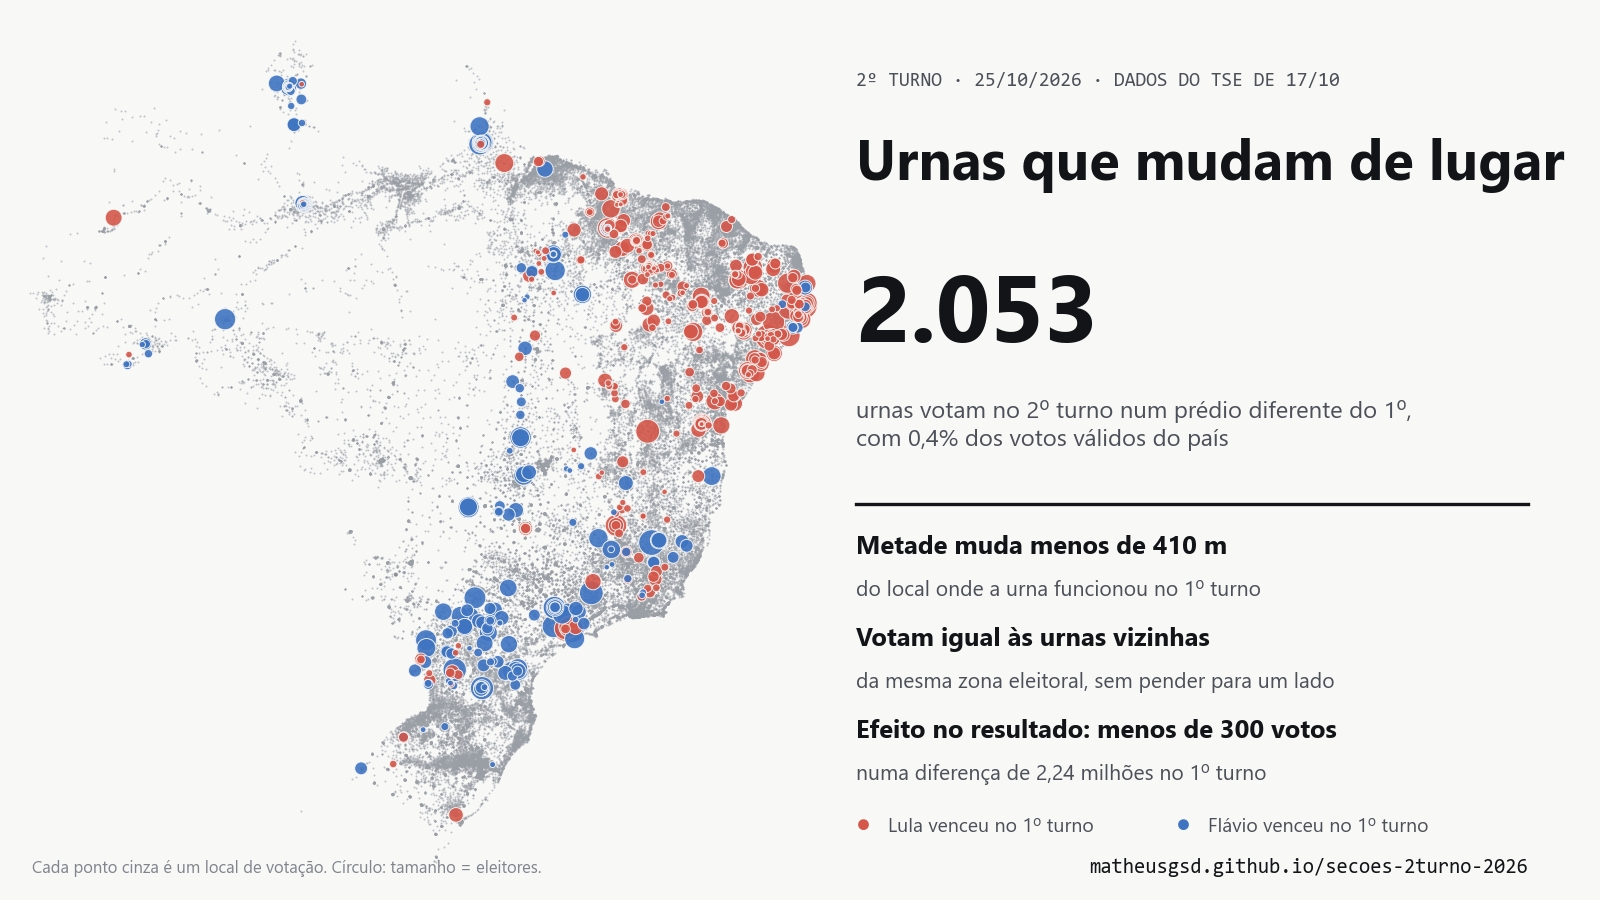
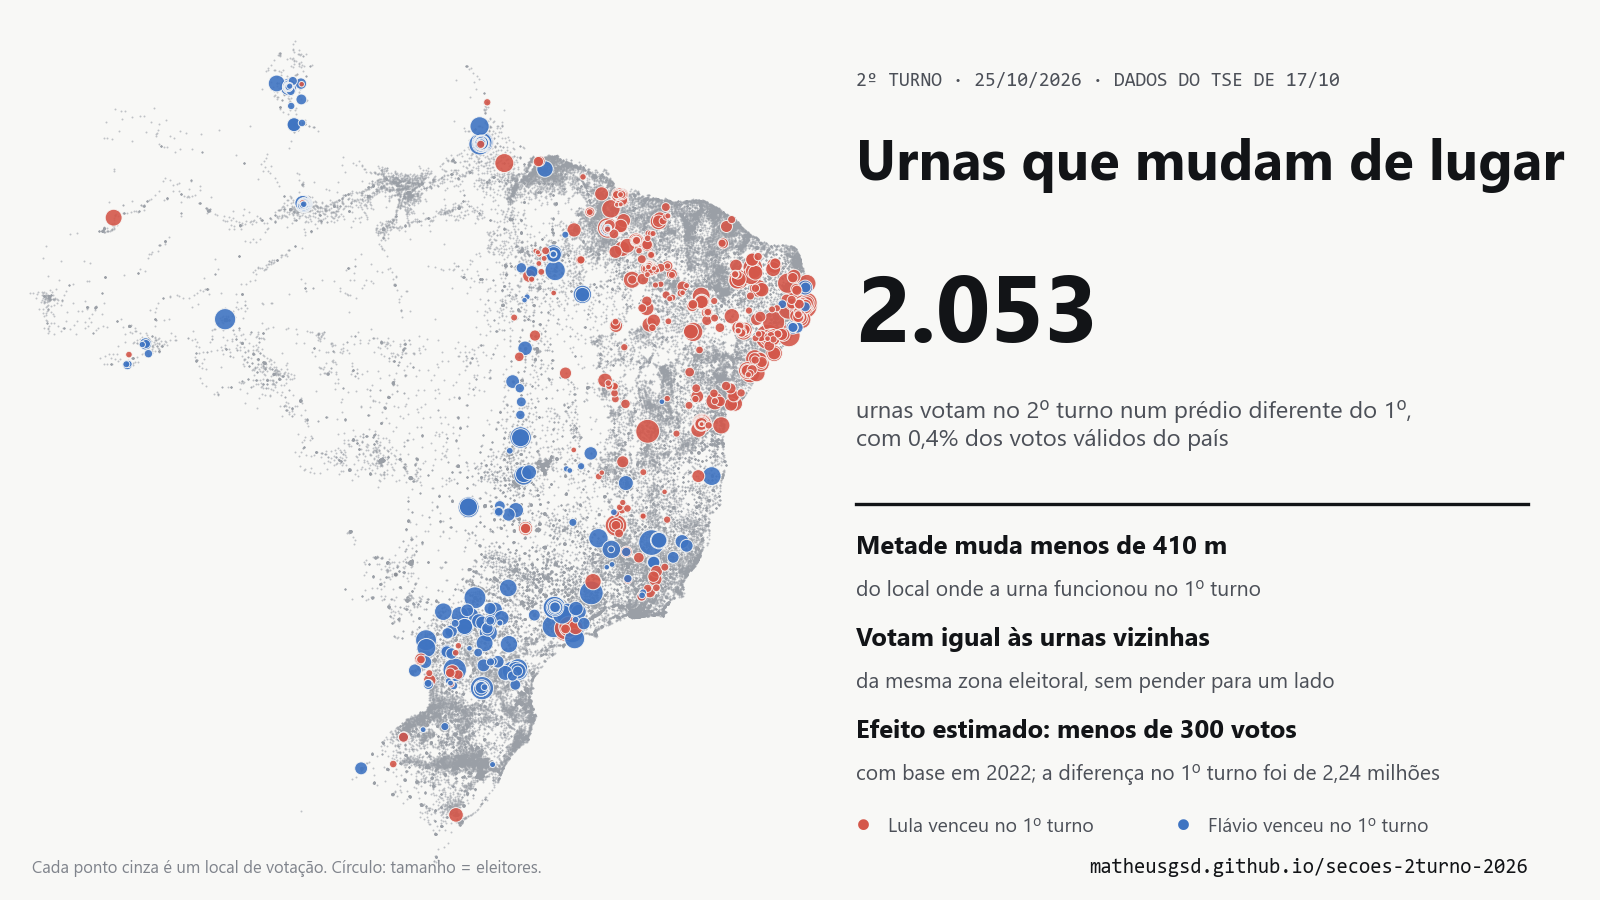
Deixa claro que o efeito no resultado é estimado
Cartão, destaque da página e README dizem "efeito estimado, com base em
2022" em vez de apresentar o número como certo.

Claude-Session: https://claude.ai/code/session_01PsTrgivSYTKeKGzt26YGKe

Changed region(s): [[0.5312, 0.7778, 0.9062, 0.8711]]

diff --git a/docs/index.html b/docs/index.html
@@ -185,7 +185,7 @@ footer { padding-block: 2rem 3rem; font-size: .82rem; color: var(--tinta3); }
   <div class="tres" aria-label="Resumo">
     <div><b>2.053</b><span>urnas votam no 2º turno num prédio diferente do 1º turno: 0,41% das 499.248 urnas do país</span></div>
     <div><b>610 mil</b><span>eleitores aptos nessas urnas, em 336 municípios de 23 estados</span></div>
-    <div><b>≈ 0</b><span>votos de efeito provável: entre 250 a menos e 80 a mais na vantagem de Flávio, que foi de 2,24 milhões no 1º turno</span></div>
+    <div><b>≈ 0</b><span>votos de efeito estimado, com base em 2022: entre 250 a menos e 80 a mais na vantagem de Flávio, que foi de 2,24 milhões no 1º turno</span></div>
   </div>
 </header>
 

diff --git a/scripts/05_imagem_x.py b/scripts/05_imagem_x.py
@@ -62,7 +62,7 @@ def main():
     itens = [
         ("Metade muda menos de 410 m", "do local onde a urna funcionou no 1º turno"),
         ("Votam igual às urnas vizinhas", "da mesma zona eleitoral, sem pender para um lado"),
-        ("Efeito no resultado: menos de 300 votos", "numa diferença de 2,24 milhões no 1º turno"),
+        ("Efeito estimado: menos de 300 votos", "com base em 2022; a diferença no 1º turno foi de 2,24 milhões"),
     ]
     y = 0.405
     fig.add_artist(plt.Line2D([x0, 0.955], [y + 0.035, y + 0.035], color=TINTA, linewidth=1.2))

diff --git a/README.md b/README.md
@@ -22,9 +22,9 @@ quais urnas mudam de prédio, em quem esses eleitores votaram no 1º turno e qua
   igual (−0,24 ponto para Lula, intervalo de 95% de −1,0 a +0,6).
 - **Mudar de lugar não fez o eleitor faltar em 2022.** As 1.382 urnas que trocaram de prédio entre os turnos de 2022
   tiveram abstenção 0,22 ponto menor que as vizinhas da mesma zona (intervalo de 95% de −0,40 a −0,04).
-- **O efeito no resultado é nulo.** Repetindo 2022, a vantagem de Flávio muda entre −250 e +80 votos, diante de
-  2,24 milhões no 1º turno. Mesmo com abstenção total nessas urnas, Lula perderia no máximo 36.895 votos líquidos
-  (1,6% da diferença).
+- **O efeito estimado no resultado é próximo de zero.** Se 2026 repetir 2022, a vantagem de Flávio muda entre −250 e
+  +80 votos, diante de 2,24 milhões no 1º turno. Mesmo com abstenção total nessas urnas, Lula perderia no máximo
+  36.895 votos líquidos (1,6% da diferença).
 
 O voto para governador não foi calculado: o arquivo nacional de votação por seção do TSE traz só presidente.
 
